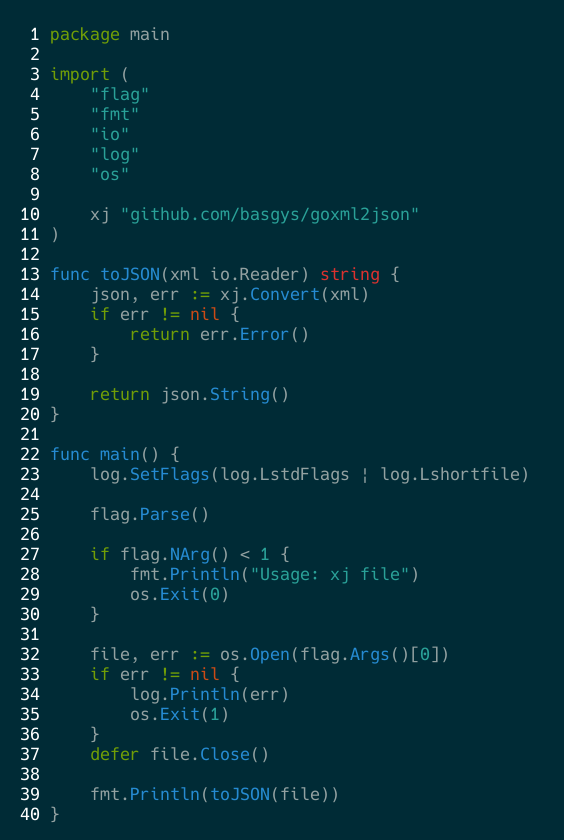
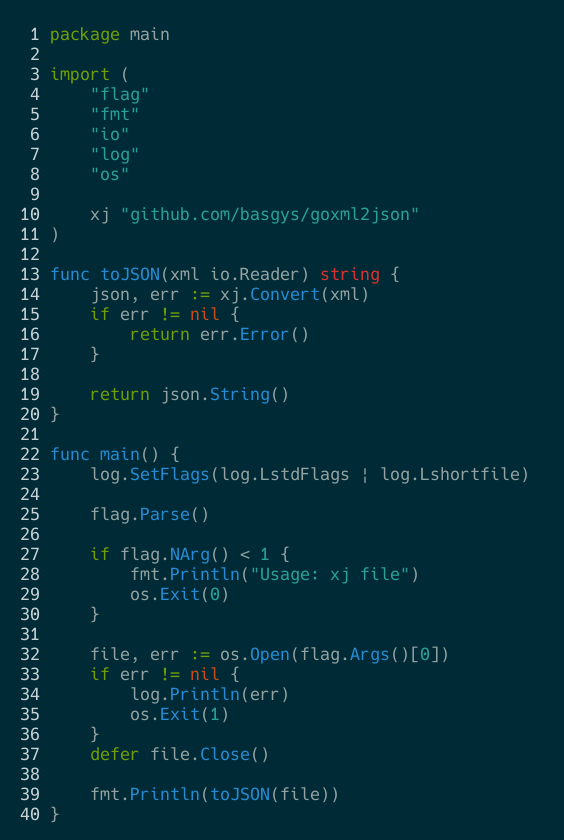
improve line number hilight

Changed region(s): [[0.0301, 0.3405, 0.0904, 0.9905], [0.0301, 0.2476, 0.0603, 0.3095]]

diff --git a/formatter.go b/formatter.go
@@ -57,9 +57,9 @@ func (p *pngFormat) Format(w io.Writer, style *chroma.Style, iterator chroma.Ite
 	if p.printLine {
 		i := 1
 		if bg.Brightness() < 0.5 {
-			dr.Src = image.NewUniform(color.White)
+			dr.Src = image.NewUniform(color.RGBA{200, 200, 200, 200})
 		} else {
-			dr.Src = image.NewUniform(color.Black)
+			dr.Src = image.NewUniform(color.RGBA{50, 50, 50, 255})
 		}
 
 		lx := fixed.Int26_6(2)
